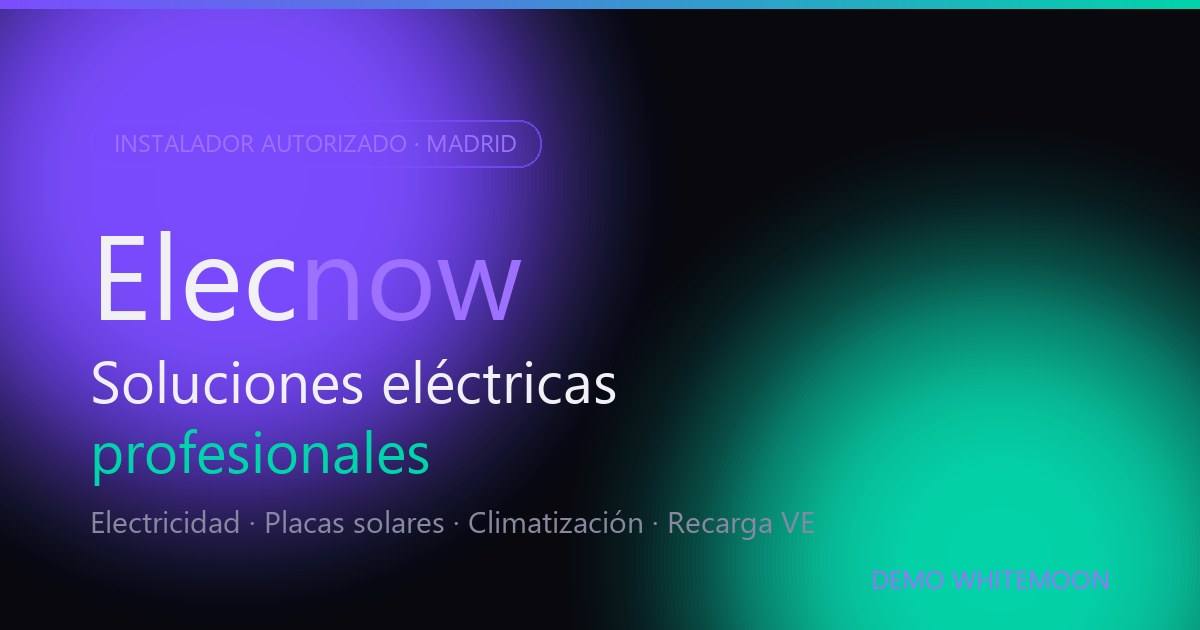
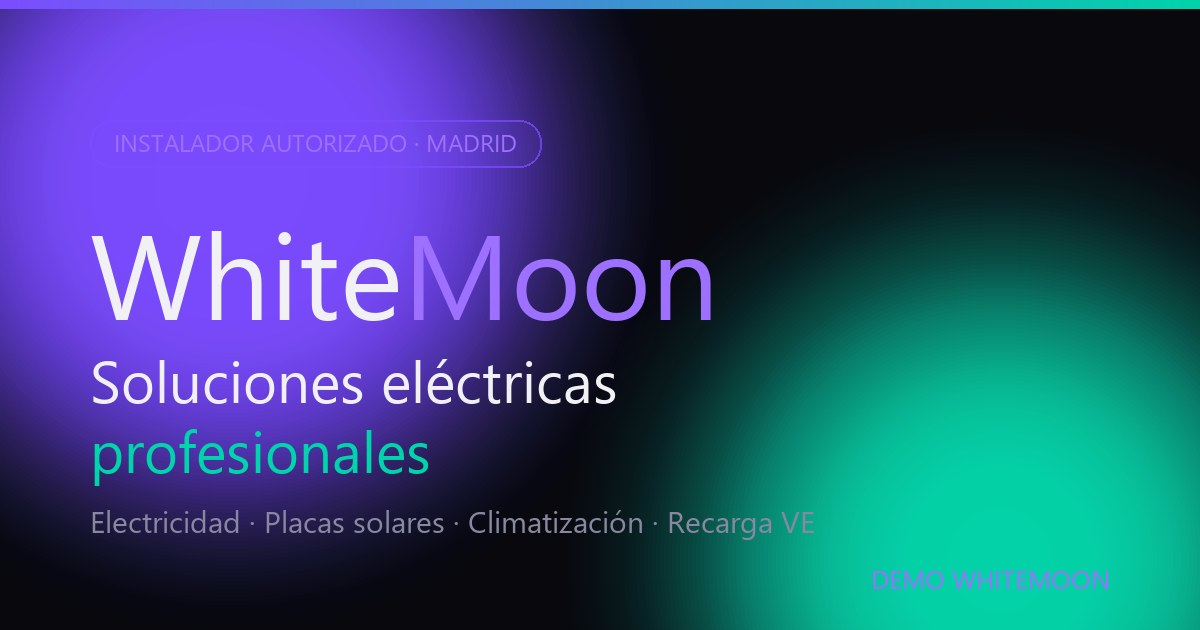
refactor(demo): rebranda la demo de electricista a marca WhiteMoon + agente Watio (#545)
- Marca Elecnow -> WhiteMoon en todos los sitios: logo cabecera/preloader/footer,
  title, meta author, og:title, twitter:title, JSON-LD (name), texto gigante del
  CTA, footer copy y og.jpg regenerada con marca WhiteMoon. Cero "Elecnow".
- El chatbot pasa a llamarse "Watio": nombre visible "Watio · Asistente", avatar
  W, se presenta como Watio en el saludo, cierre "un técnico de WhiteMoon te
  contactará", footer del chat "Watio · Asistente IA por WhiteMoon".
- Eliminado el widget flotante de WhatsApp (burbuja tipo joinchat) y su CSS. El
  único punto de contacto conversacional es el chatbot Watio.
- Sin cambios en: contactos WhiteMoon (643199580 / wa.me / comercial@whitemoon.es),
  circuito de leads (leads_web, origen=electricistas-demo), electricistas-notify
  a 34643199580, y el SEO/GEO/AEO.

Changed region(s): [[0.0617, 0.3619, 0.6167, 0.5127]]

diff --git a/electricistas-madrid/index.html b/electricistas-madrid/index.html
@@ -3,7 +3,7 @@
 <head>
 <meta charset="UTF-8">
 <meta name="viewport" content="width=device-width,initial-scale=1.0">
-<title>Electricista en Villaviciosa de Odón y Pozuelo | Elecnow</title>
+<title>Electricista en Villaviciosa de Odón y Pozuelo | WhiteMoon</title>
 <meta name="description" content="Electricista autorizado en Villaviciosa de Odón, Pozuelo y Majadahonda: electricidad, placas solares, climatización y recarga VE. Presupuesto gratis.">
 <meta name="keywords" content="electricista Villaviciosa de Odon, electricista Pozuelo, electricista Majadahonda, instalador autorizado Madrid, placas solares Madrid, punto de recarga VE, climatizacion Madrid, boletin electrico, REBT, RITE">
 <link rel="canonical" href="https://whitemoon.es/electricistas-madrid/">
@@ -11,8 +11,8 @@
 <meta name="geo.region" content="ES-MD">
 <meta name="geo.placename" content="Villaviciosa de Odón, Madrid">
 <meta name="ICBM" content="40.3573, -3.9010">
-<meta name="author" content="Elecnow">
-<meta property="og:title" content="Electricista en Villaviciosa de Odón y Pozuelo | Elecnow">
+<meta name="author" content="WhiteMoon">
+<meta property="og:title" content="Electricista en Villaviciosa de Odón y Pozuelo | WhiteMoon">
 <meta property="og:description" content="Instalador eléctrico autorizado en Madrid. Electricidad, placas solares, climatización y recarga VE. Presupuesto sin compromiso.">
 <meta property="og:type" content="website">
 <meta property="og:locale" content="es_ES">
@@ -21,7 +21,7 @@
 <meta property="og:image:width" content="1200">
 <meta property="og:image:height" content="630">
 <meta name="twitter:card" content="summary_large_image">
-<meta name="twitter:title" content="Electricista en Villaviciosa de Odón y Pozuelo | Elecnow">
+<meta name="twitter:title" content="Electricista en Villaviciosa de Odón y Pozuelo | WhiteMoon">
 <meta name="twitter:description" content="Instalador eléctrico autorizado en Madrid. Electricidad, placas solares, climatización y recarga VE.">
 <meta name="twitter:image" content="https://whitemoon.es/electricistas-madrid/og.jpg">
 
@@ -38,7 +38,7 @@
 </noscript>
 
 <script type="application/ld+json">
-{"@context":"https://schema.org","@type":"Electrician","name":"Elecnow","description":"Instalador eléctrico autorizado en Villaviciosa de Odón (Madrid). Instalaciones eléctricas, placas solares, climatización y puntos de recarga para vehículo eléctrico. Cumplimos normativa REBT y RITE.","url":"https://whitemoon.es/electricistas-madrid/","email":"comercial@whitemoon.es","telephone":"+34643199580","priceRange":"€€","image":"https://whitemoon.es/electricistas-madrid/og.jpg","address":{"@type":"PostalAddress","addressLocality":"Villaviciosa de Odón","addressRegion":"Madrid","postalCode":"28670","addressCountry":"ES"},"geo":{"@type":"GeoCoordinates","latitude":40.3573,"longitude":-3.9010},"openingHoursSpecification":[{"@type":"OpeningHoursSpecification","dayOfWeek":["Monday","Tuesday","Wednesday","Thursday","Friday"],"opens":"09:00","closes":"20:00"},{"@type":"OpeningHoursSpecification","dayOfWeek":"Saturday","opens":"09:00","closes":"14:00"}],"areaServed":[{"@type":"City","name":"Villaviciosa de Odón","sameAs":"https://www.wikidata.org/wiki/Q1631897"},{"@type":"City","name":"Pozuelo de Alarcón","sameAs":"https://www.wikidata.org/wiki/Q639422"},{"@type":"City","name":"Majadahonda","sameAs":"https://www.wikidata.org/wiki/Q427505"},{"@type":"City","name":"Boadilla del Monte","sameAs":"https://www.wikidata.org/wiki/Q1641013"},{"@type":"City","name":"Alcorcón","sameAs":"https://www.wikidata.org/wiki/Q10372"},{"@type":"City","name":"Móstoles","sameAs":"https://www.wikidata.org/wiki/Q187826"},{"@type":"City","name":"Madrid","sameAs":"https://www.wikidata.org/wiki/Q2807"}],"knowsAbout":["Instalaciones eléctricas","Placas solares","Climatización","Puntos de recarga para vehículo eléctrico","Boletín eléctrico REBT"],"serviceType":["Instalaciones eléctricas","Placas solares","Punto de recarga VE","Climatización","Reformas eléctricas"]}
+{"@context":"https://schema.org","@type":"Electrician","name":"WhiteMoon","description":"Instalador eléctrico autorizado en Villaviciosa de Odón (Madrid). Instalaciones eléctricas, placas solares, climatización y puntos de recarga para vehículo eléctrico. Cumplimos normativa REBT y RITE.","url":"https://whitemoon.es/electricistas-madrid/","email":"comercial@whitemoon.es","telephone":"+34643199580","priceRange":"€€","image":"https://whitemoon.es/electricistas-madrid/og.jpg","address":{"@type":"PostalAddress","addressLocality":"Villaviciosa de Odón","addressRegion":"Madrid","postalCode":"28670","addressCountry":"ES"},"geo":{"@type":"GeoCoordinates","latitude":40.3573,"longitude":-3.9010},"openingHoursSpecification":[{"@type":"OpeningHoursSpecification","dayOfWeek":["Monday","Tuesday","Wednesday","Thursday","Friday"],"opens":"09:00","closes":"20:00"},{"@type":"OpeningHoursSpecification","dayOfWeek":"Saturday","opens":"09:00","closes":"14:00"}],"areaServed":[{"@type":"City","name":"Villaviciosa de Odón","sameAs":"https://www.wikidata.org/wiki/Q1631897"},{"@type":"City","name":"Pozuelo de Alarcón","sameAs":"https://www.wikidata.org/wiki/Q639422"},{"@type":"City","name":"Majadahonda","sameAs":"https://www.wikidata.org/wiki/Q427505"},{"@type":"City","name":"Boadilla del Monte","sameAs":"https://www.wikidata.org/wiki/Q1641013"},{"@type":"City","name":"Alcorcón","sameAs":"https://www.wikidata.org/wiki/Q10372"},{"@type":"City","name":"Móstoles","sameAs":"https://www.wikidata.org/wiki/Q187826"},{"@type":"City","name":"Madrid","sameAs":"https://www.wikidata.org/wiki/Q2807"}],"knowsAbout":["Instalaciones eléctricas","Placas solares","Climatización","Puntos de recarga para vehículo eléctrico","Boletín eléctrico REBT"],"serviceType":["Instalaciones eléctricas","Placas solares","Punto de recarga VE","Climatización","Reformas eléctricas"]}
 </script>
 <script type="application/ld+json">
 {"@context":"https://schema.org","@type":"FAQPage","mainEntity":[{"@type":"Question","name":"¿Sois instalador eléctrico autorizado?","acceptedAnswer":{"@type":"Answer","text":"Sí. Somos instalador eléctrico autorizado y trabajamos cumpliendo la normativa REBT (Reglamento Electrotécnico de Baja Tensión) y RITE. Emitimos el boletín eléctrico cuando la instalación lo requiere."}},{"@type":"Question","name":"¿En qué zonas de Madrid trabajáis?","acceptedAnswer":{"@type":"Answer","text":"Trabajamos en Villaviciosa de Odón, Pozuelo de Alarcón, Majadahonda, Boadilla del Monte, Alcorcón, Móstoles y alrededores del suroeste de Madrid."}},{"@type":"Question","name":"¿El presupuesto tiene coste o compromiso?","acceptedAnswer":{"@type":"Answer","text":"No. Estudiamos tu necesidad y te damos un presupuesto cerrado sin coste y sin compromiso. El precio que firmamos es el precio final, sin sorpresas."}},{"@type":"Question","name":"¿Instaláis placas solares y puntos de recarga para coche eléctrico?","acceptedAnswer":{"@type":"Answer","text":"Sí. Instalamos placas solares de autoconsumo y puntos de recarga para vehículo eléctrico en viviendas, comunidades y empresas, con la legalización correspondiente."}},{"@type":"Question","name":"¿Atendéis urgencias eléctricas?","acceptedAnswer":{"@type":"Answer","text":"Sí. Intervenimos con agilidad en tu zona para resolver averías y cualquier necesidad eléctrica. Escríbenos por el chat o por WhatsApp y te atendemos lo antes posible."}}]}
@@ -231,7 +231,7 @@ section{padding:110px 52px}
 
 /* CTA */
 .cta-sec{background:var(--bg);text-align:center;position:relative;overflow:hidden}
-.cta-sec::before{content:'ELECNOW';position:absolute;left:50%;top:50%;transform:translate(-50%,-50%);font-family:'Sora',sans-serif;font-weight:800;font-size:clamp(5rem,18vw,15rem);color:rgba(124,77,255,.04);white-space:nowrap;pointer-events:none;letter-spacing:-.05em}
+.cta-sec::before{content:'WHITEMOON';position:absolute;left:50%;top:50%;transform:translate(-50%,-50%);font-family:'Sora',sans-serif;font-weight:800;font-size:clamp(5rem,18vw,15rem);color:rgba(124,77,255,.04);white-space:nowrap;pointer-events:none;letter-spacing:-.05em}
 .cta-in{position:relative;z-index:2;max-width:660px;margin:0 auto}
 .cta-in h2{font-family:'Sora',sans-serif;font-weight:800;font-size:clamp(2.3rem,5vw,4.2rem);line-height:.98;letter-spacing:-.035em;margin-bottom:16px}
 .cta-in p{color:var(--muted);margin-bottom:34px;font-size:.98rem;line-height:1.75;font-weight:300}
@@ -301,9 +301,6 @@ footer{background:#050509;border-top:1px solid var(--border2);padding:64px 52px 
 .cb-send:hover{transform:scale(1.08)}
 .cb-foot2{background:#050509;border-top:1px solid var(--border2);text-align:center;padding:8px;font-size:.55rem;font-weight:700;letter-spacing:.14em;text-transform:uppercase;color:rgba(124,77,255,.3)}
 
-/* WHATSAPP FLOAT */
-.wa-float{position:fixed;bottom:26px;left:26px;z-index:400;width:54px;height:54px;border-radius:50%;background:#25d366;display:flex;align-items:center;justify-content:center;box-shadow:0 8px 24px -6px rgba(37,211,102,.5);transition:transform .2s}
-.wa-float:hover{transform:scale(1.08)}
 
 /* RESPONSIVE */
 @media(max-width:900px){
@@ -330,7 +327,6 @@ footer{background:#050509;border-top:1px solid var(--border2);padding:64px 52px 
   .footer-top{grid-template-columns:1fr 1fr;gap:32px}
   .cb-mod{right:12px;left:12px;width:auto;bottom:90px}
   .cb-fab-wrap{bottom:20px;right:20px}
-  .wa-float{bottom:20px;left:20px}
 }
 @media(max-width:600px){
   .hero h1{font-size:clamp(2.2rem,10vw,3rem)}
@@ -355,13 +351,13 @@ footer{background:#050509;border-top:1px solid var(--border2);padding:64px 52px 
 </div>
 
 <div class="preloader" id="pre">
-  <div class="pre-logo">Elec<span>now</span></div>
+  <div class="pre-logo">White<span>Moon</span></div>
   <div class="pre-bar"><div class="pre-fill"></div></div>
 </div>
 
 <nav class="nav" id="nav">
   <a href="#top" class="nav-logo">
-    Elec<span>now</span>
+    White<span>Moon</span>
     <small>Instalador eléctrico autorizado</small>
   </a>
   <div class="nav-links" id="nav-links">
@@ -661,7 +657,7 @@ footer{background:#050509;border-top:1px solid var(--border2);padding:64px 52px 
   <div class="footer-in">
     <div class="footer-top">
       <div class="footer-brand">
-        <div class="footer-logo">Elec<span>now</span></div>
+        <div class="footer-logo">White<span>Moon</span></div>
         <p>Servicios de electricidad, climatización y soluciones energéticas en Madrid. Atención profesional en Villaviciosa de Odón, Pozuelo, Majadahonda y alrededores.</p>
         <div class="footer-social">
           <a href="https://wa.me/34643199580" target="_blank" rel="noopener" aria-label="WhatsApp"><svg width="17" height="17" viewBox="0 0 24 24" fill="none" stroke="currentColor" stroke-width="2"><path d="M22 16.92v3a2 2 0 0 1-2.18 2 19.79 19.79 0 0 1-8.63-3.07 19.5 19.5 0 0 1-6-6 19.79 19.79 0 0 1-3.07-8.67A2 2 0 0 1 4.11 2h3a2 2 0 0 1 2 1.72c.13.96.36 1.9.7 2.81a2 2 0 0 1-.45 2.11L8.09 9.91a16 16 0 0 0 6 6l1.27-1.27a2 2 0 0 1 2.11-.45c.9.34 1.85.57 2.81.7A2 2 0 0 1 22 16.92z"/></svg></a>
@@ -691,21 +687,16 @@ footer{background:#050509;border-top:1px solid var(--border2);padding:64px 52px 
       </div>
     </div>
     <div class="footer-bottom">
-      <p class="footer-copy">© 2026 Elecnow · Todos los derechos reservados · <a href="https://whitemoon.es" target="_blank" rel="noopener">Web por WhiteMoon</a></p>
+      <p class="footer-copy">© 2026 WhiteMoon · Todos los derechos reservados · <a href="https://whitemoon.es" target="_blank" rel="noopener">whitemoon.es</a></p>
       <div class="footer-made">Demo WhiteMoon</div>
     </div>
   </div>
 </footer>
 
-<!-- WHATSAPP FLOAT -->
-<a class="wa-float" href="https://wa.me/34643199580" target="_blank" rel="noopener" aria-label="Escríbenos por WhatsApp">
-  <svg width="26" height="26" viewBox="0 0 24 24" fill="#fff"><path d="M17.5 14.4c-.3-.15-1.7-.85-2-.94-.26-.1-.45-.15-.65.15-.19.28-.74.94-.9 1.13-.17.19-.34.21-.63.07-.3-.15-1.25-.46-2.38-1.47-.88-.78-1.47-1.75-1.64-2.05-.17-.29-.02-.44.13-.59.13-.13.29-.34.44-.51.15-.17.19-.29.29-.48.1-.19.05-.36-.02-.51-.08-.15-.65-1.57-.9-2.15-.24-.56-.48-.49-.65-.5h-.56c-.19 0-.51.07-.77.36-.26.29-1.01.99-1.01 2.41s1.04 2.79 1.18 2.98c.15.19 2.04 3.12 4.95 4.37.69.3 1.23.48 1.65.61.69.22 1.32.19 1.82.12.56-.08 1.7-.7 1.94-1.36.24-.67.24-1.24.17-1.36-.07-.12-.26-.19-.55-.34z"/><path d="M12 2a10 10 0 0 0-8.5 15.3L2 22l4.8-1.5A10 10 0 1 0 12 2zm0 18.2c-1.5 0-3-.4-4.3-1.2l-.3-.2-2.9.9.9-2.8-.2-.3A8.2 8.2 0 1 1 12 20.2z"/></svg>
-</a>
-
 <!-- CHATBOT FAB -->
 <div class="cb-fab-wrap" id="fab-wrap">
   <span class="cb-label">¿Hablamos? Presupuesto gratis</span>
-  <button class="cb-fab" id="cb-fab" onclick="openChat()" aria-label="Abrir asistente de Elecnow">
+  <button class="cb-fab" id="cb-fab" onclick="openChat()" aria-label="Abrir a Watio, asistente de WhiteMoon">
     <svg viewBox="0 0 24 24" width="24" height="24" fill="none" stroke="currentColor" stroke-width="2.2" stroke-linecap="round" stroke-linejoin="round"><path d="M21 15a2 2 0 0 1-2 2H7l-4 4V5a2 2 0 0 1 2-2h14a2 2 0 0 1 2 2z"/></svg>
     <span class="cb-notif">1</span>
   </button>
@@ -714,9 +705,9 @@ footer{background:#050509;border-top:1px solid var(--border2);padding:64px 52px 
 <!-- CHATBOT MODAL -->
 <div class="cb-mod" id="cb-mod">
   <div class="cb-head">
-    <div class="cb-av">E</div>
+    <div class="cb-av">W</div>
     <div class="cb-head-info">
-      <div class="cb-head-name">Asistente de Elecnow</div>
+      <div class="cb-head-name">Watio · Asistente</div>
       <div class="cb-head-sub"><span class="dot"></span>Responde al instante</div>
     </div>
     <button class="cb-close" onclick="closeChat()" aria-label="Cerrar">
@@ -731,7 +722,7 @@ footer{background:#050509;border-top:1px solid var(--border2);padding:64px 52px 
       <svg width="15" height="15" viewBox="0 0 24 24" fill="none" stroke="currentColor" stroke-width="2.5" stroke-linecap="round"><line x1="22" y1="2" x2="11" y2="13"/><polygon points="22 2 15 22 11 13 2 9 22 2"/></svg>
     </button>
   </div>
-  <div class="cb-foot2">Elecnow · Asistente IA por WhiteMoon</div>
+  <div class="cb-foot2">Watio · Asistente IA por WhiteMoon</div>
 </div>
 
 <script>
@@ -817,7 +808,7 @@ function openChat(){
   if(!greeted){
     greeted=true;
     setTimeout(function(){
-      botSay('Hola, soy el asistente de Elecnow. Te ayudo a solicitar tu presupuesto sin compromiso.');
+      botSay('Hola, soy Watio, el asistente de WhiteMoon. Te ayudo a solicitar tu presupuesto sin compromiso.');
       setTimeout(function(){
         botSay('¿Qué tipo de trabajo necesitas?');
         showQRs(['Instalación eléctrica','Placas solares','Climatización','Punto de recarga VE','Avería / urgencia','Otro']);
@@ -884,7 +875,7 @@ function nextStep(v){
       return;
     }
     d.telefono=tel;step=99;
-    botSay('¡Listo! Hemos registrado tu solicitud de '+d.servicio+' en '+d.zona+'. Un técnico de Elecnow te contactará lo antes posible. Muchas gracias.');
+    botSay('¡Listo! Hemos registrado tu solicitud de '+d.servicio+' en '+d.zona+'. Un técnico de WhiteMoon te contactará lo antes posible. Muchas gracias.');
     document.getElementById('cb-input').disabled=true;
     document.getElementById('cb-send').disabled=true;
     saveLead();
